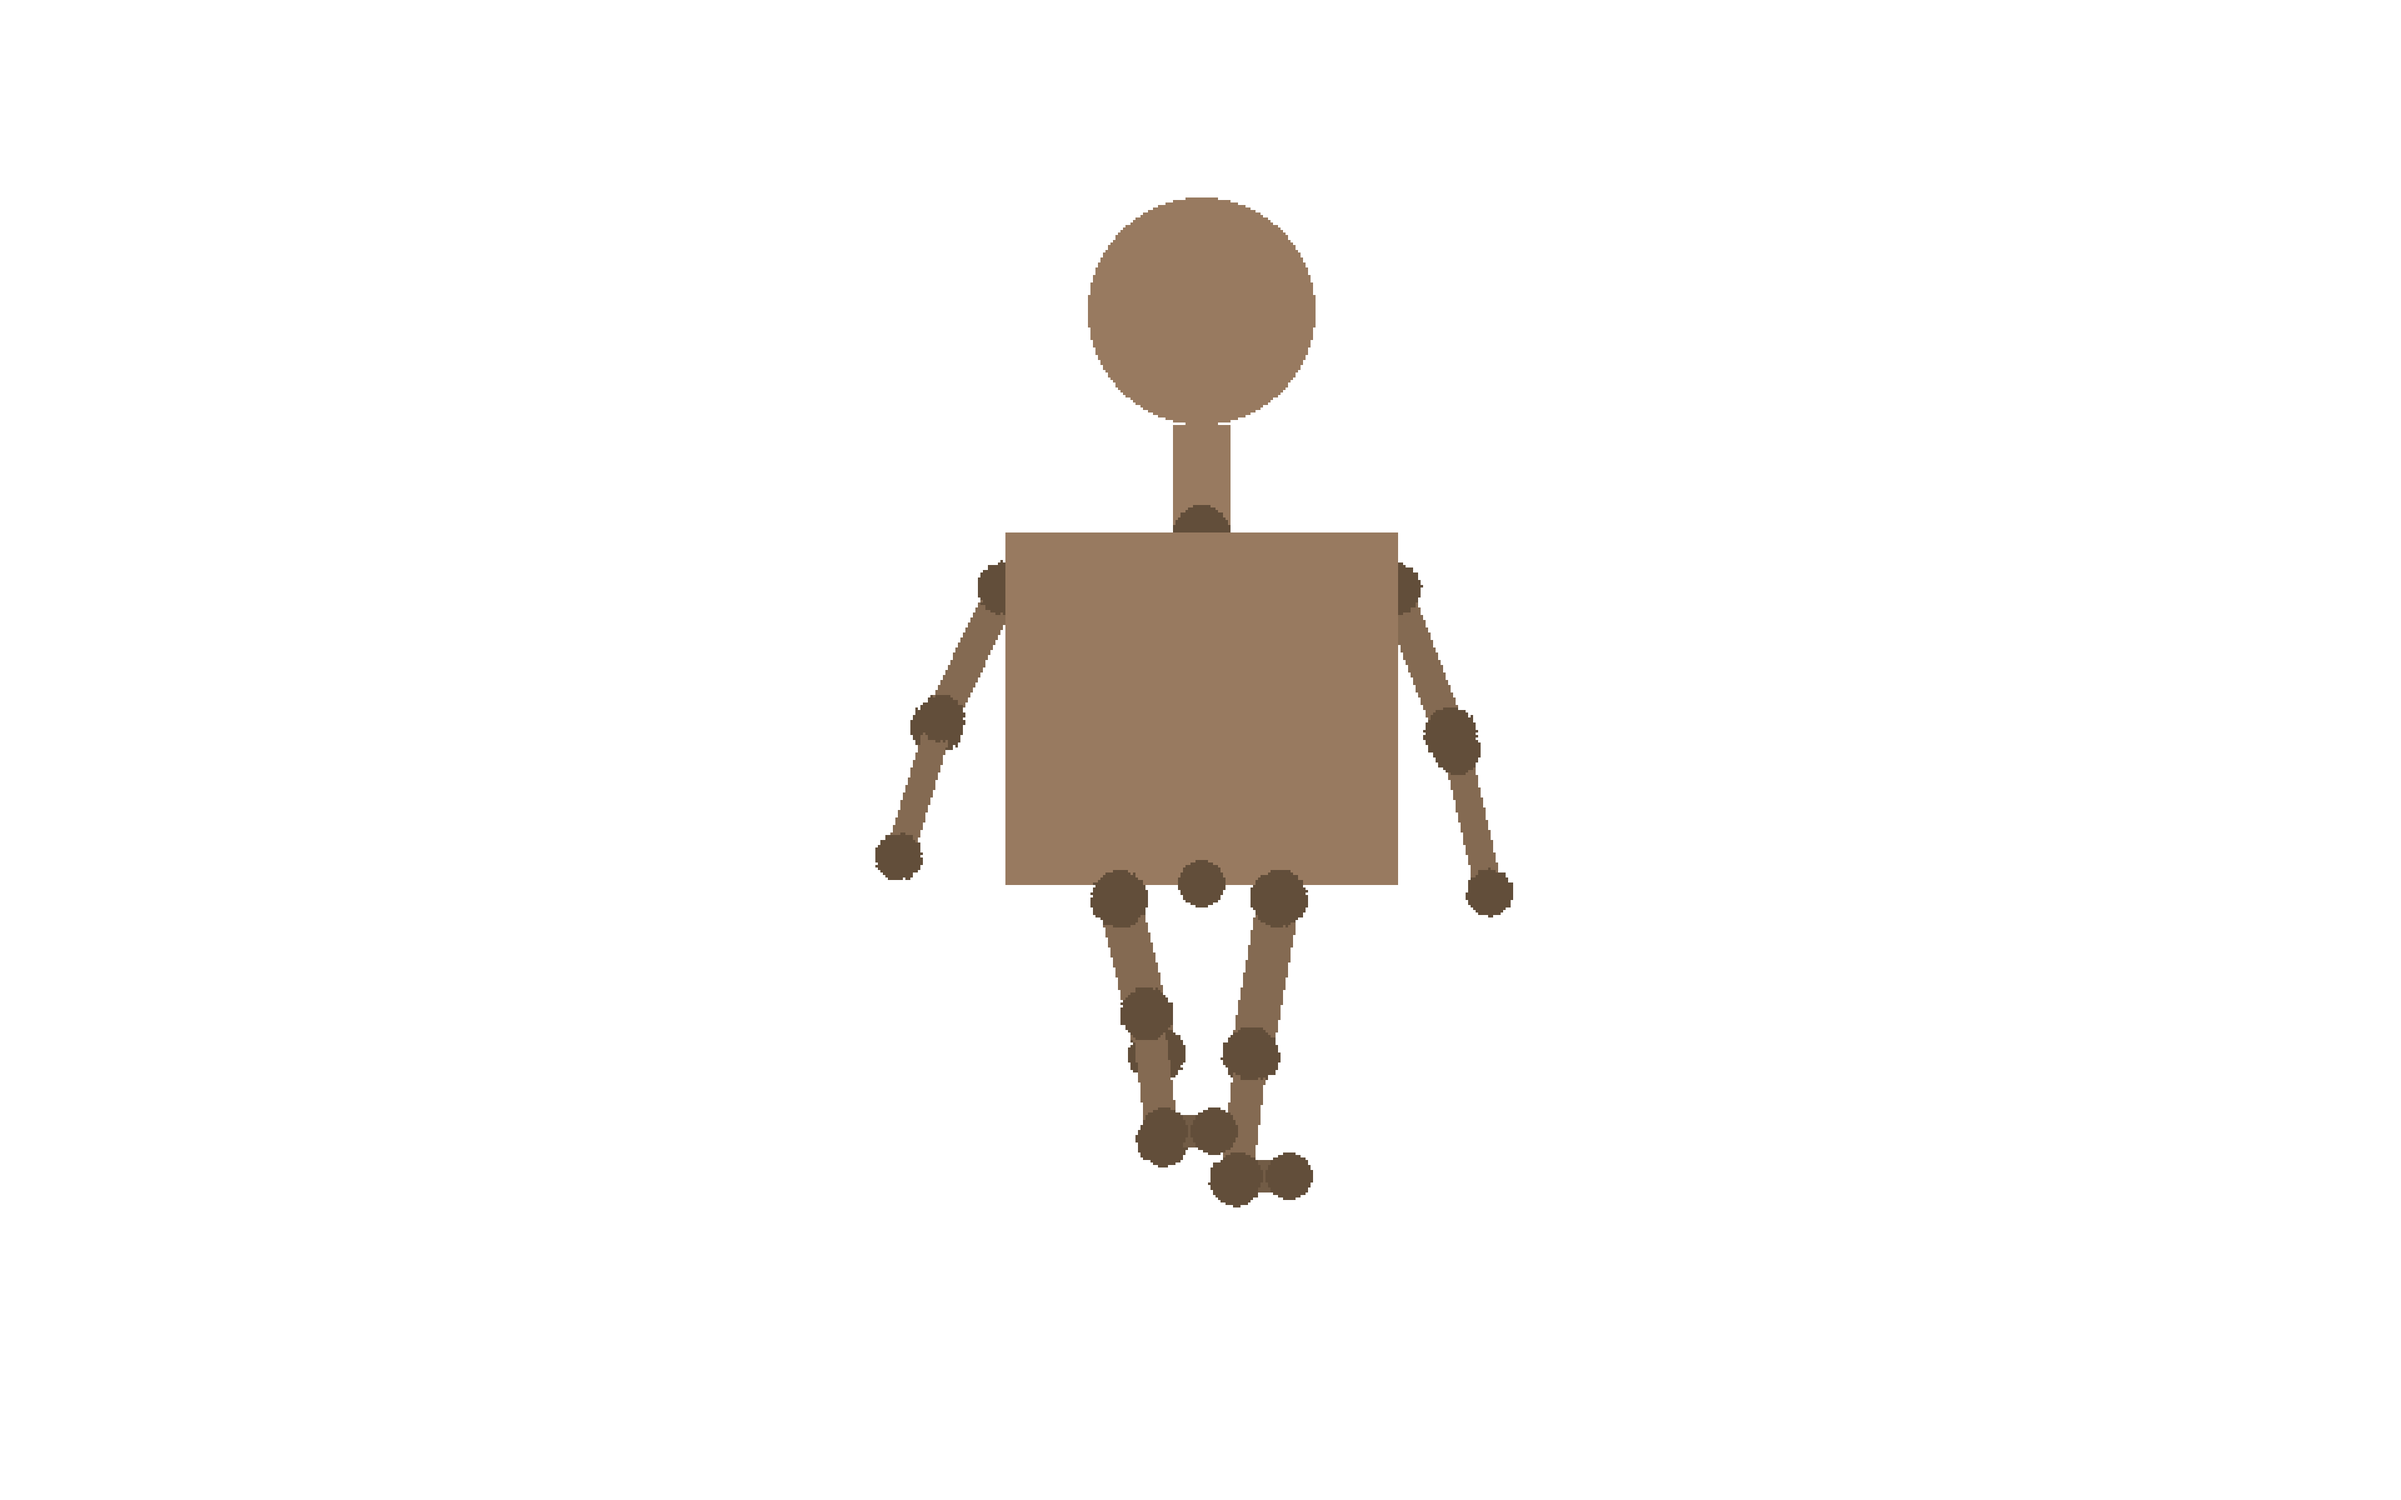
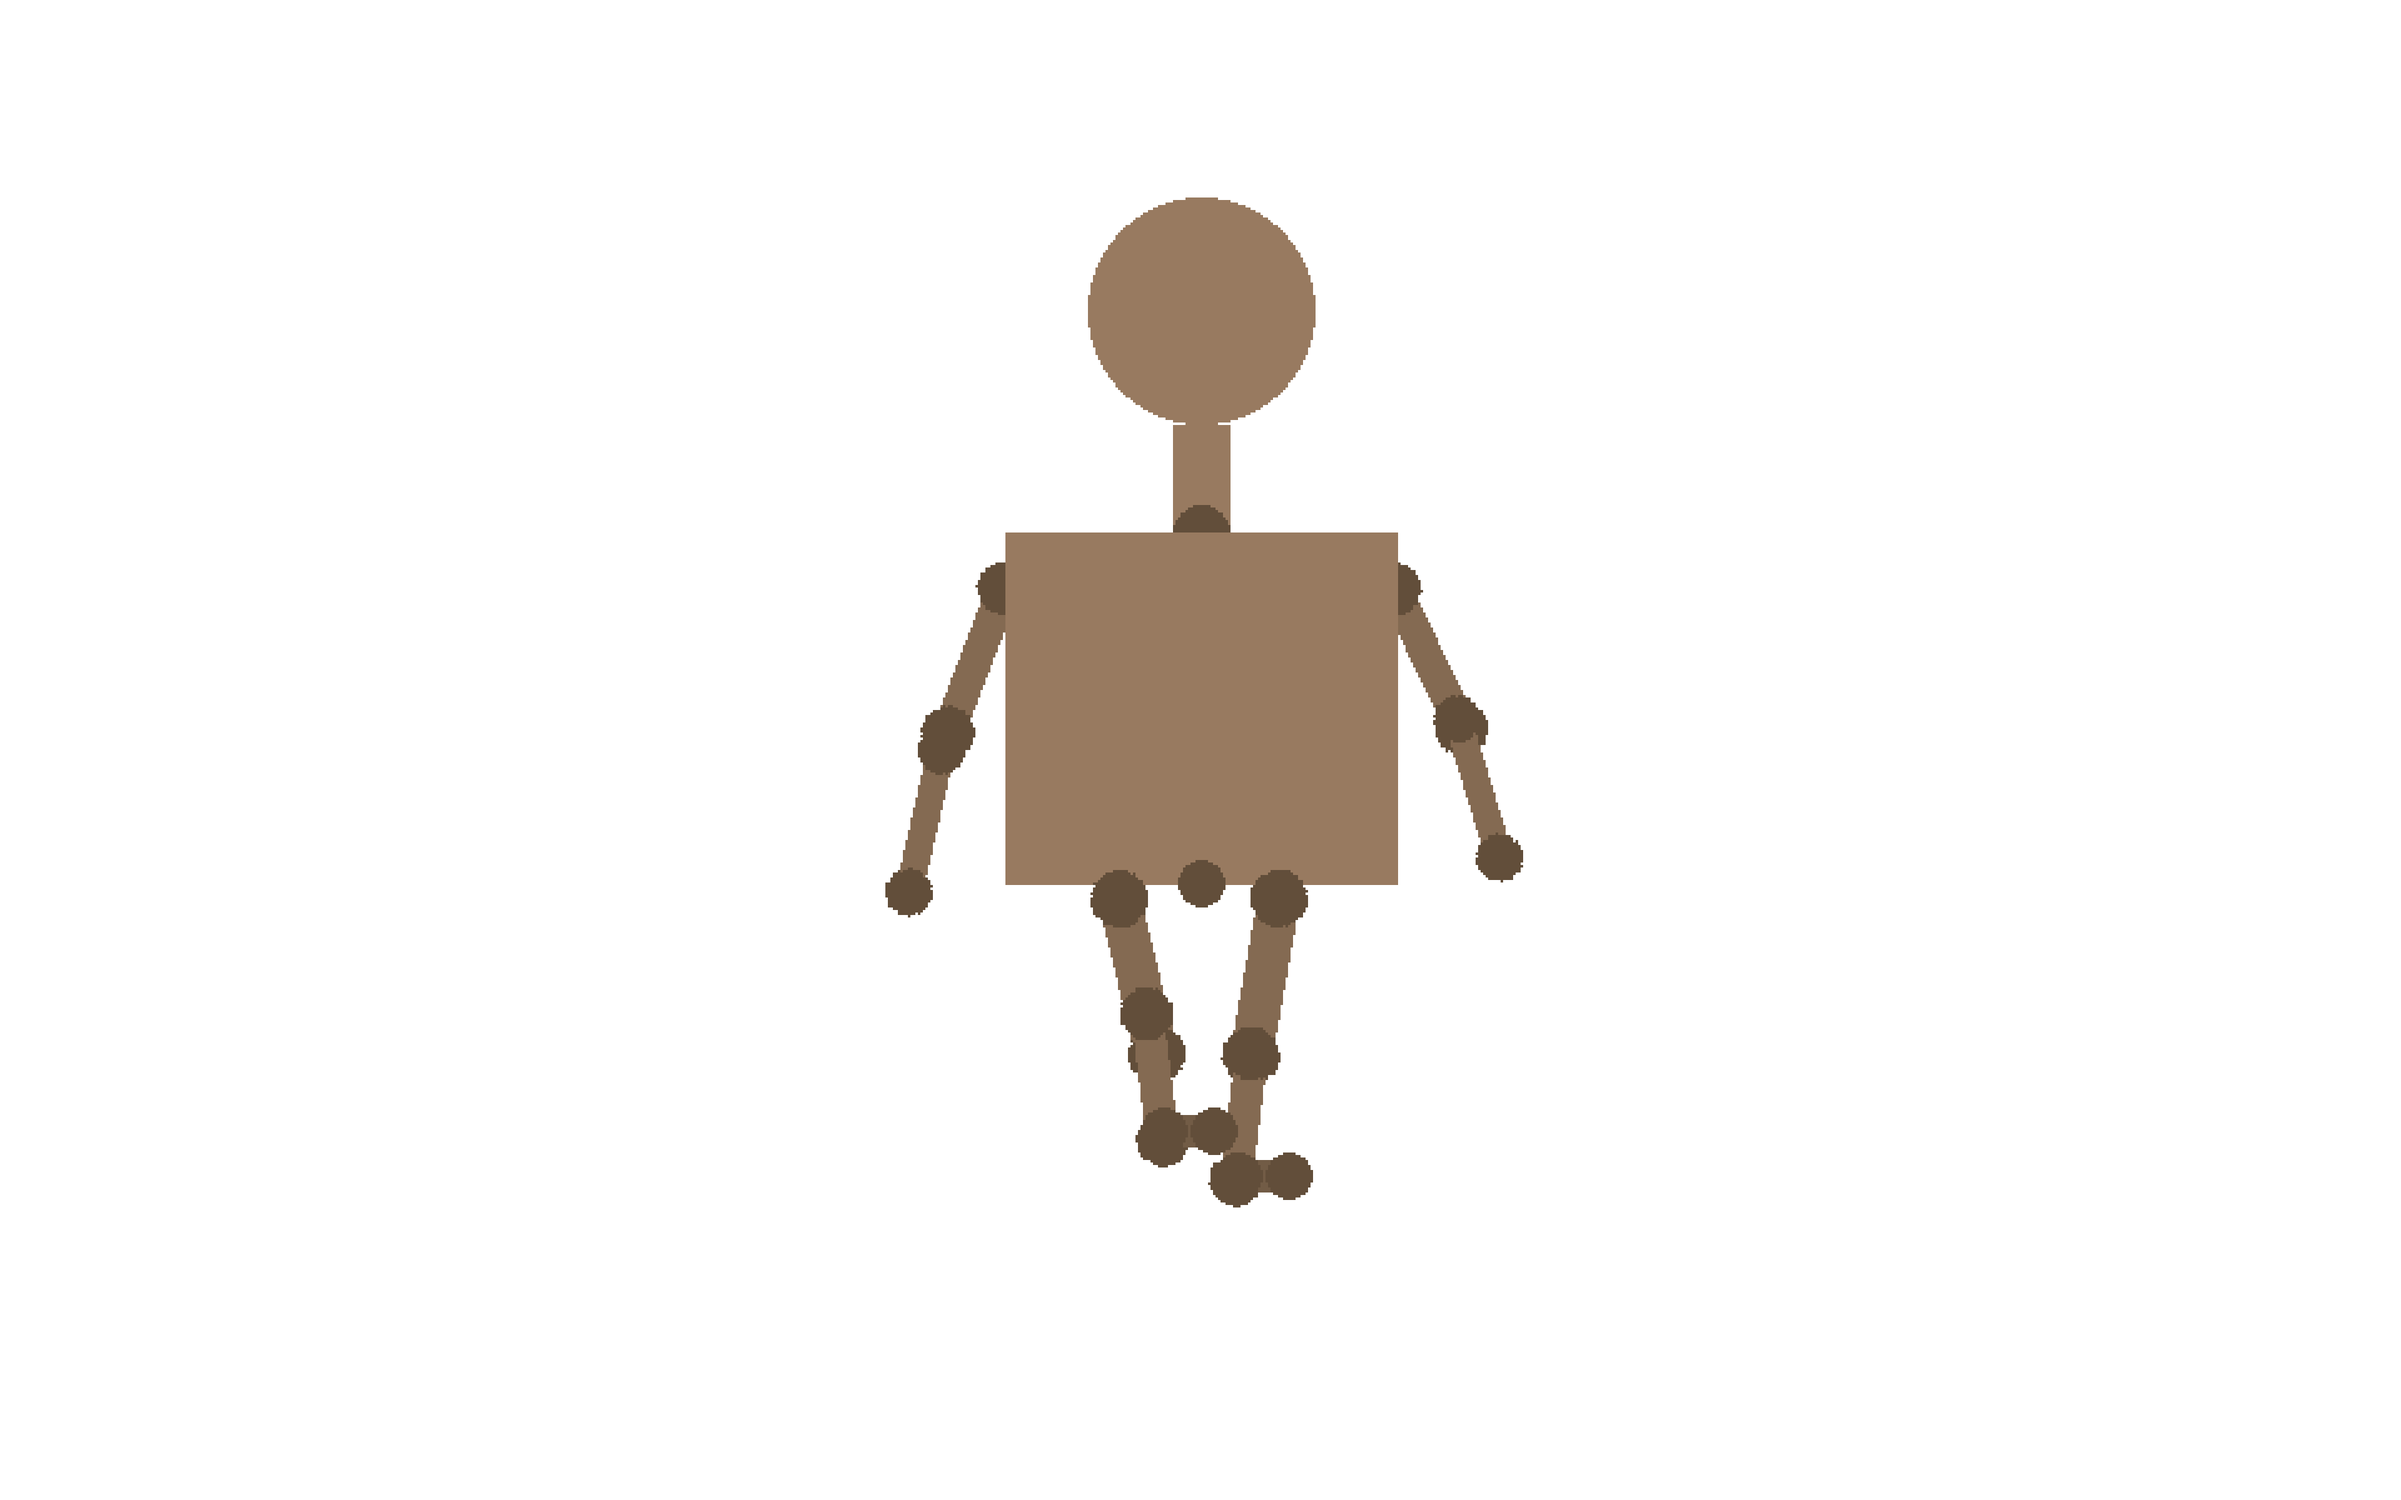
fix(walk): 彻底修复顺拐——front/back 手臂 y 方向改为异侧相位
之前修复只调了手臂 x 方向（外展），但 front/back 视图摆臂的视觉主信号是
手的上下(y)。左腿前伸(sin+)时左臂 y 仍上抬(前摆)=同手同脚，视觉仍顺拐。

- walk.json front arms: left_* y 改用 arm_right(+sin)，right_* y 改用 arm_left
  → 左腿前伸时左臂下放后摆（异侧），右腿同理
- walk.json back arms: rear_hand_left y 改用 sin，rear_hand_right y 改用 sin_r
- 重烘焙 4 角色制品 + 重生成 front/back/side preview GIF
- showcase.html 加三视图便于核对
- 数据验证: front/back 左腿 y 谷值时左臂 y 峰值(异侧)，Godot headless 冒烟通过

Changed region(s): [[0.5938, 0.4375, 0.6562, 0.625], [0.3438, 0.4375, 0.4062, 0.625]]

diff --git a/skins/showcase.html b/skins/showcase.html
@@ -18,7 +18,25 @@
 <body>
 <h1>⚔ 魔兽风格角色（人体模特蒙皮）</h1>
 
-<div class="section">走路 walk（front）</div>
+<div class="section">走路 walk · 三视图（front / back / side）— 摆臂与腿异侧</div>
+<div class="row">
+  <div class="card"><img src="orc/preview/orc_walk_front.gif"><h3>兽人·front</h3></div>
+  <div class="card"><img src="orc/preview/orc_walk_back.gif"><h3>兽人·back</h3></div>
+  <div class="card"><img src="orc/preview/orc_walk_side.gif"><h3>兽人·side</h3></div>
+  <div class="card"><img src="human_warrior/preview/human_warrior_walk_front.gif"><h3>人类战士·front</h3></div>
+  <div class="card"><img src="human_warrior/preview/human_warrior_walk_back.gif"><h3>人类战士·back</h3></div>
+  <div class="card"><img src="human_warrior/preview/human_warrior_walk_side.gif"><h3>人类战士·side</h3></div>
+</div>
+<div class="row">
+  <div class="card"><img src="undead/preview/undead_walk_front.gif"><h3>亡灵·front</h3></div>
+  <div class="card"><img src="undead/preview/undead_walk_back.gif"><h3>亡灵·back</h3></div>
+  <div class="card"><img src="undead/preview/undead_walk_side.gif"><h3>亡灵·side</h3></div>
+  <div class="card"><img src="dwarf/preview/dwarf_walk_front.gif"><h3>矮人·front</h3></div>
+  <div class="card"><img src="dwarf/preview/dwarf_walk_back.gif"><h3>矮人·back</h3></div>
+  <div class="card"><img src="dwarf/preview/dwarf_walk_side.gif"><h3>矮人·side</h3></div>
+</div>
+
+<div class="section">走路 walk（front）总览</div>
 <div class="row">
   <div class="card"><img src="orc/preview/orc_walk_front.gif"><h3>兽人 orc</h3><div class="tag">宽肩强壮·绿</div></div>
   <div class="card"><img src="human_warrior/preview/human_warrior_walk_front.gif"><h3>人类战士 human_warrior</h3><div class="tag">标准健壮·蓝</div></div>
